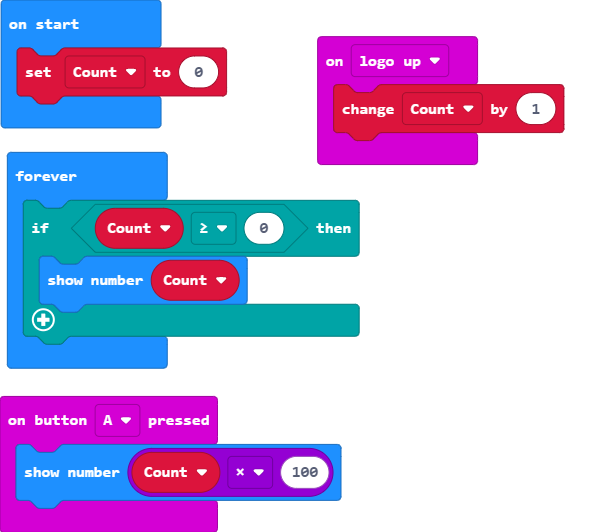
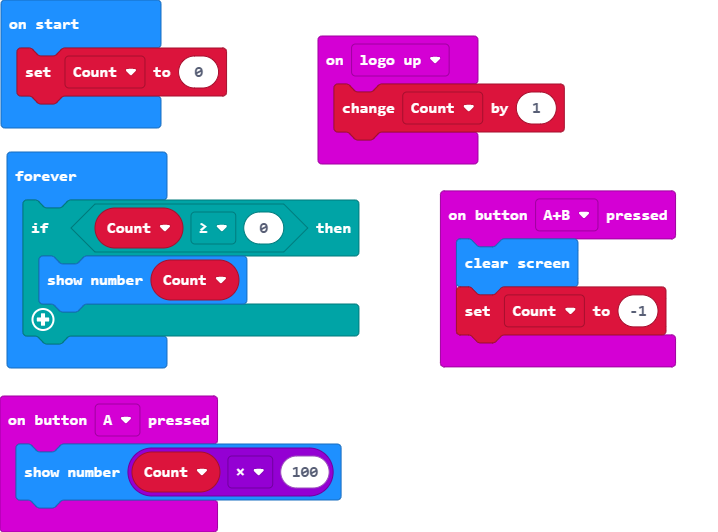
Adding the reset.

diff --git a/main.ts b/main.ts
@@ -4,6 +4,10 @@ input.onButtonPressed(Button.A, function () {
 input.onGesture(Gesture.LogoUp, function () {
     Count += 1
 })
+input.onButtonPressed(Button.AB, function () {
+    basic.clearScreen()
+    Count = -1
+})
 let Count = 0
 Count = 0
 basic.forever(function () {

diff --git a/Tutorial.md b/Tutorial.md
@@ -43,11 +43,21 @@ input.onButtonPressed(Button.A, function () {
     basic.showNumber(Count * 100)
 })
 ```
+## Reset the wheel.
+Using the ``A`` and ``B`` buttons, the ``Count`` can be reset to find out the distance between two new objects. 
 
+```blocks
+input.onButtonPressed(Button.AB, function () {
+    basic.clearScreen()
+    Count = -1
+})
+```
 
 
 
 ## All the code
+Enjoy!
+
 ```blocks
 input.onButtonPressed(Button.A, function () {
     basic.showNumber(Count * 100)
@@ -61,6 +71,10 @@ basic.forever(function () {
     if (Count >= 0) {
         basic.showNumber(Count)
     }
+})
+input.onButtonPressed(Button.AB, function () {
+    basic.clearScreen()
+    Count = -1
 })
 
 ```
